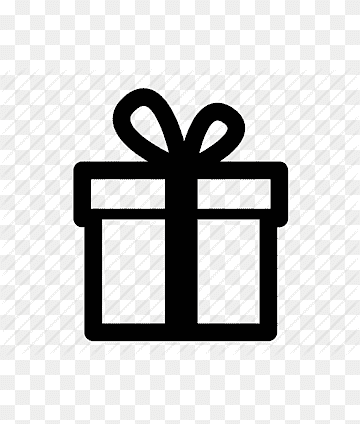
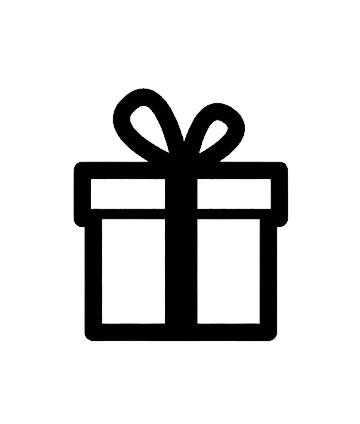
1- Frontend: Cambios minimos en el estilo, y cambie las imagenes que tenian fondo de otro color y las cargue sin fondo

diff --git a/frontend/templates/emprendimientos.html b/frontend/templates/emprendimientos.html
@@ -29,37 +29,37 @@
                     <div id="botonSeleccion" class="first-thumb {% if categoria == 'ropa' %}active{% endif %}">
                       <div class="thumb" id="altura">
                         <span class="icon"><img src="{{ url_for('static', filename='images/search-icon-01.png') }}" alt=""></span>
-                        <a href="{{ url_for('emprendimientos', categoria='ropa') }}#altura">Ropa</a>
+                        <a class="tituloCategoria" href="{{ url_for('emprendimientos', categoria='ropa') }}#altura">Ropa</a>
                       </div>
                     </div>
                     <div id="botonSeleccion" class="thumb {% if categoria == 'comida' %}active{% endif %}">
                       <div class="thumb" >                 
                         <span class="icon"><img src="{{ url_for('static', filename='images/search-icon-02.png') }}" alt=""></span>
-                        <a href="{{ url_for('emprendimientos', categoria='comida') }}#altura">Comida</a>
+                        <a class="tituloCategoria" href="{{ url_for('emprendimientos', categoria='comida') }}#altura">Comida</a>
                       </div>
                     </div>
                     <div  id="botonSeleccion" class="thumb {% if categoria == 'regalos' %}active{% endif %}">
                       <div class="thumb">                 
                         <span class="icon"><img src="{{ url_for('static', filename='images/search-icon-03.png') }}" alt=""></span>
-                        <a href="{{ url_for('emprendimientos', categoria='regalos') }}#altura">Regalos</a>
+                        <a class="tituloCategoria" href="{{ url_for('emprendimientos', categoria='regalos') }}#altura">Regalos</a>
                       </div>
                     </div>
                     <div  id="botonSeleccion" class="thumb {% if categoria == 'experiencias' %}active{% endif %}">
                       <div class="thumb">                 
                         <span class="icon"><img src="{{ url_for('static', filename='images/search-icon-04.png') }}" alt=""></span>
-                        <a href="{{ url_for('emprendimientos', categoria='experiencias') }}#altura">Experiencias</a>
+                        <a class="tituloCategoria" href="{{ url_for('emprendimientos', categoria='experiencias') }}#altura">Experiencias</a>
                       </div>
                     </div>
                     <div id="botonSeleccion" class="thumb {% if categoria == 'mascotas' %}active{% endif %}">
                       <div class="thumb">                 
                         <span class="icon"><img src="{{ url_for('static', filename='images/search-icon-05.png') }}" alt=""></span>
-                        <a href="{{ url_for('emprendimientos', categoria='mascotas') }}#altura">Mascotas</a>
+                        <a class="tituloCategoria" href="{{ url_for('emprendimientos', categoria='mascotas') }}#altura">Mascotas</a>
                       </div>
                     </div>
                     <div id="botonSeleccion" class="last-thumb {% if categoria == 'otro' %}active{% endif %}">
                       <div class="thumb">                 
                         <span class="icon"><img src="{{ url_for('static', filename='images/search-icon-06.png') }}" alt=""></span>
-                        <a href="{{ url_for('emprendimientos', categoria='otro') }}#altura">Otros</a>
+                        <a class="tituloCategoria" href="{{ url_for('emprendimientos', categoria='otro') }}#altura">Otros</a>
                       </div>
                     </div>
                   </div>

diff --git a/frontend/static/css/templatemo-plot-listing.css b/frontend/static/css/templatemo-plot-listing.css
@@ -2297,3 +2297,10 @@ h3 {
   cursor: pointer;
   z-index: 1000;
 }
+
+.tituloCategoria {
+  color: #ffffff;
+  font-size: 20px;
+  font-weight: bold;
+  
+}
